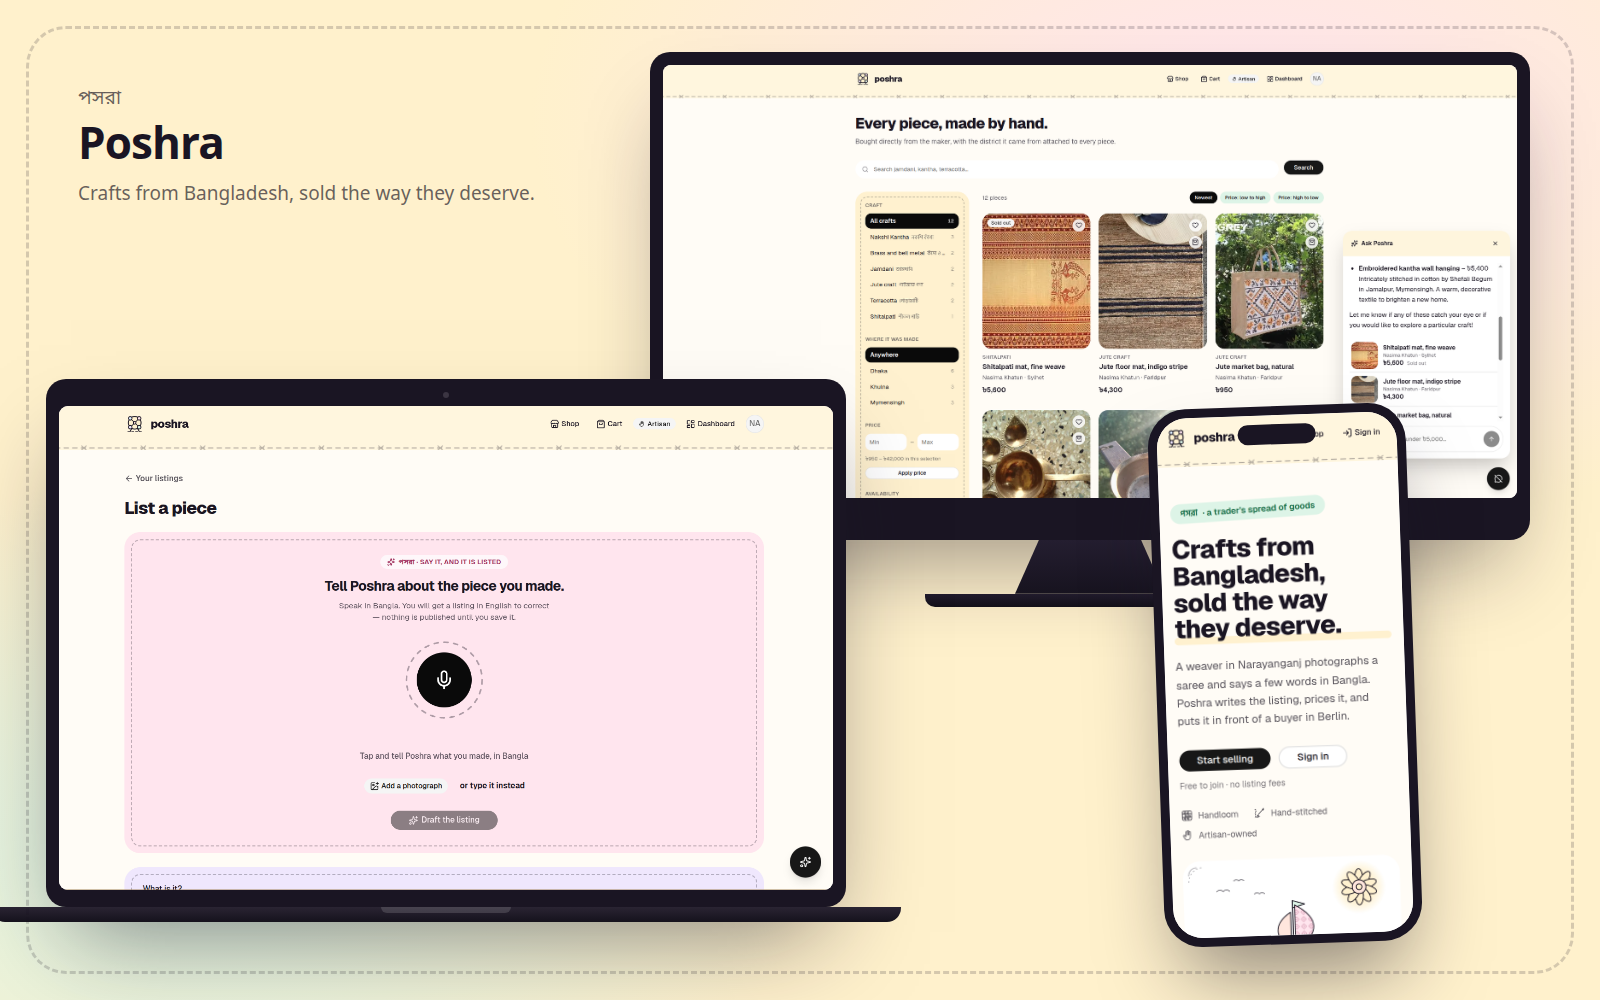
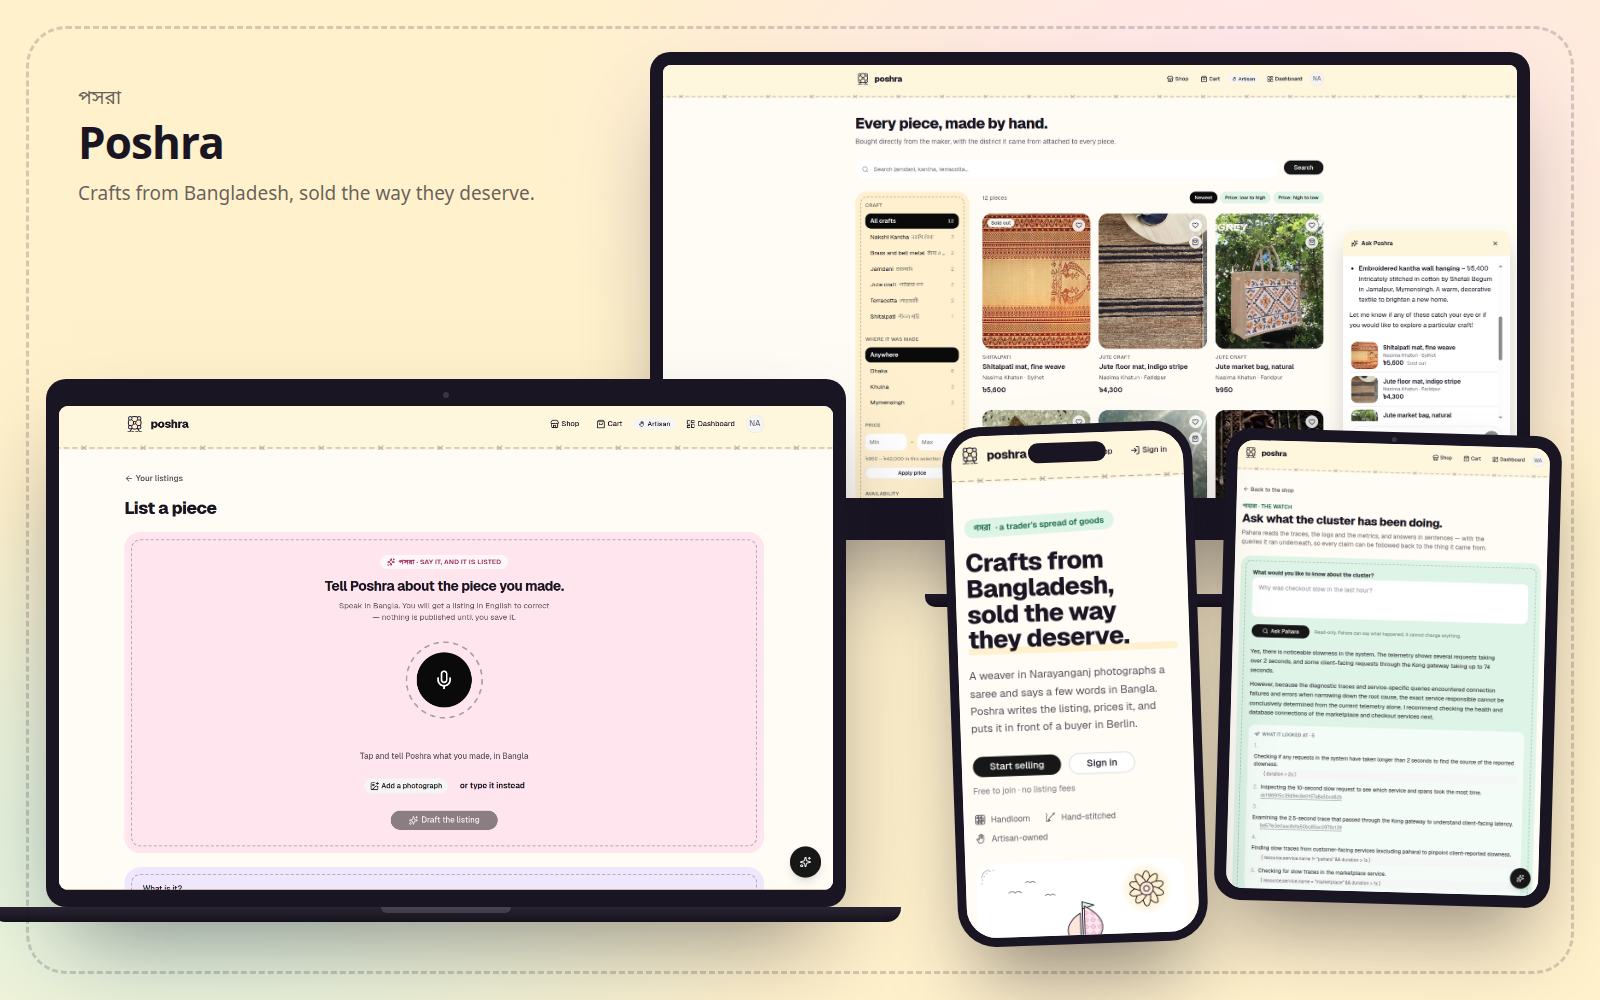
docs: the watch joins the hero
Four screens now. The shop is what it is, the laptop is what makes it
different, the phone says it works in a hand — and the tablet is the cluster
explaining itself, which is the part nothing else in the README shows.

The capture is 696x1000, which is an iPad Air's aspect to within a thousandth,
so the frame is a tablet's: an even bezel all round and no button.

Changed region(s): [[0.5625, 0.403, 1.0, 1.0]]

diff --git a/docs/assets/hero.html b/docs/assets/hero.html
@@ -114,12 +114,43 @@
         background: rgba(255, 255, 255, 0.14);
       }
 
+      /* ---------- tablet (front right) ----------
+         An even bezel all round and no button: what makes a slab read as a
+         tablet rather than a large phone. */
+      .tablet {
+        position: absolute;
+        right: 44px;
+        bottom: 96px;
+        width: 336px;
+        background: var(--ink);
+        border-radius: 26px;
+        padding: 12px;
+        box-shadow: 0 45px 80px -20px rgba(26, 21, 35, 0.45);
+        transform: rotate(1.6deg);
+      }
+      .tablet .screen {
+        border-radius: 16px;
+        overflow: hidden;
+        background: #fff;
+      }
+      .tablet .screen img { display: block; width: 100%; }
+      .tablet .camera {
+        position: absolute;
+        top: 5px;
+        left: 50%;
+        transform: translateX(-50%);
+        width: 5px;
+        height: 5px;
+        border-radius: 50%;
+        background: #3b3542;
+      }
+
       /* ---------- phone (front right) ---------- */
       .phone {
         position: absolute;
-        right: 186px;
+        right: 400px;
         bottom: 56px;
-        width: 258px;
+        width: 250px;
         background: var(--ink);
         border-radius: 38px;
         padding: 9px;
@@ -170,6 +201,11 @@
           <div class="screen"><img src="cap-drafting.png" alt="" /></div>
         </div>
         <div class="base"><div class="notch-base"></div></div>
+      </div>
+
+      <div class="tablet">
+        <div class="camera"></div>
+        <div class="screen"><img src="cap-pahara.png" alt="" /></div>
       </div>
 
       <div class="phone">

diff --git a/README.md b/README.md
@@ -10,7 +10,7 @@
 </p>
 
 <p align="center">
-  <img src="docs/assets/hero.png" alt="Poshra on three screens: the shop with craft filters on a monitor, an artisan speaking a listing into being on a laptop, and the mobile storefront on a phone" width="960">
+  <img src="docs/assets/hero.png" alt="Poshra on four screens: the shop with craft filters on a monitor, an artisan speaking a listing into being on a laptop, the mobile storefront on a phone, and Pahara explaining what the cluster has been doing on a tablet" width="960">
 </p>
 
 <p align="center">
